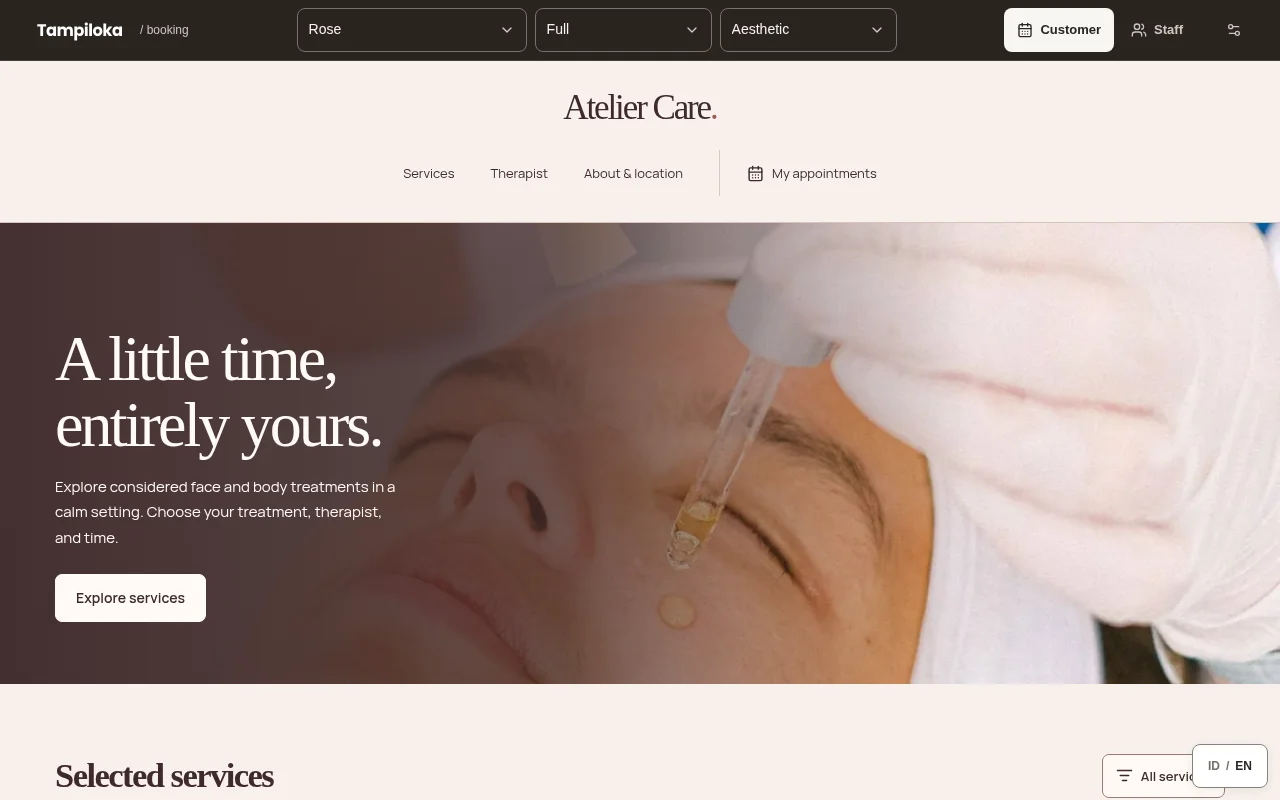
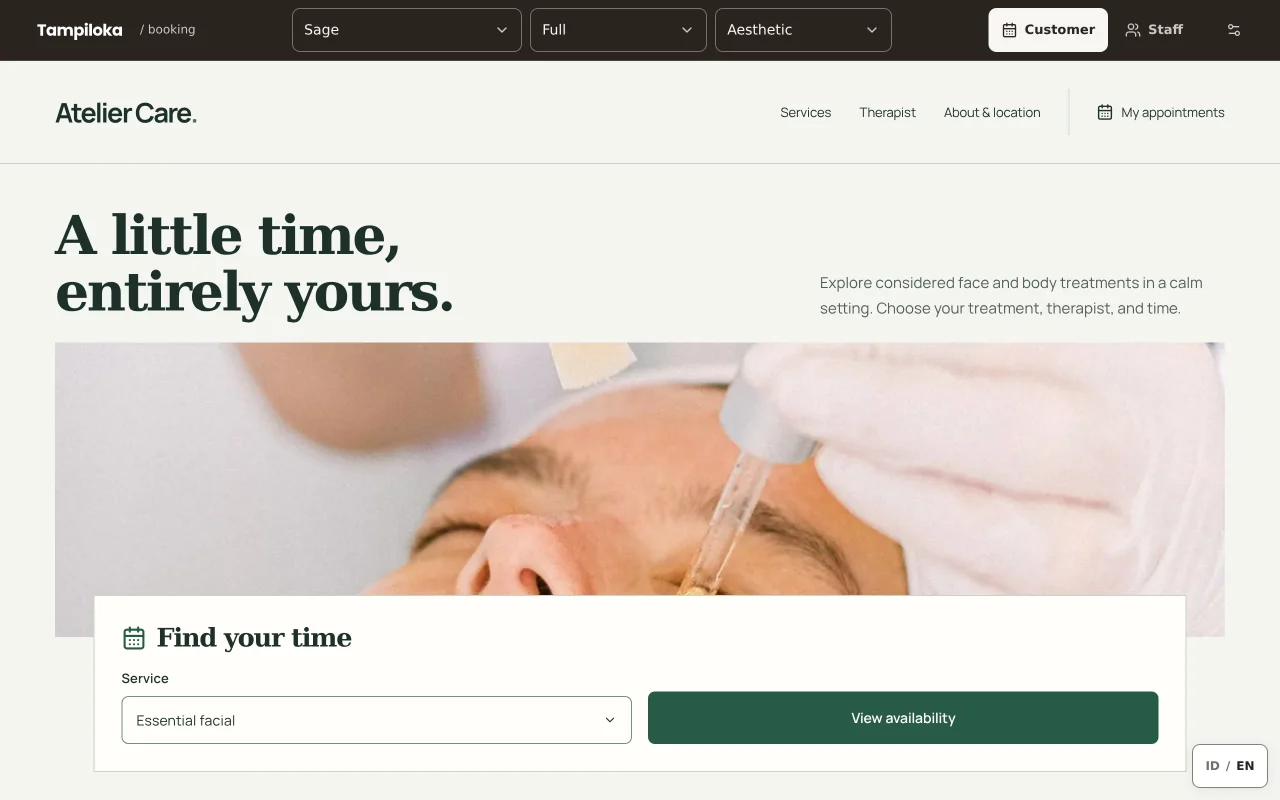
Keep booking demo service links clear of language control

diff --git a/templates/booking/src/styles/customer.css b/templates/booking/src/styles/customer.css
@@ -1055,3 +1055,8 @@
     font-size: 15px;
   }
 }
+
+/* Keep section actions clear of the fixed demo language switch while scrolling. */
+body:has(.tl-demo-language) .b-section-heading > .b-collection-link {
+  margin-right: max(0px, calc(100px + env(safe-area-inset-right, 0px) - var(--gutter)));
+}

diff --git a/templates/booking/docs/design.md b/templates/booking/docs/design.md
@@ -67,3 +67,5 @@ The care-appointment reference WF-14 supports the existing service-to-booking hi
 The WF-14 care-appointment reference informed the disclosure and service-to-booking hierarchy. Booking retains its own configured brand, typography and four layouts; a catalog-workspace pattern was less appropriate for this focused interaction change. The reference is guidance rather than a new visual identity.
 
 Customer and staff route changes use a 180ms entrance on the main region. The route key excludes language and palette, so those choices preserve open disclosures and entered values. The global reduced-motion rule removes the movement. Bootstrap errors preserve API codes until localized rendering; unknown errors use localized recovery text.
+
+In the public demo, section actions reserve space beside the fixed language switch as they scroll through the viewport.

diff --git a/AGENTS.md b/AGENTS.md
@@ -236,6 +236,8 @@ Run design-token lint, affected template typechecks, catalog validation/tests, a
 
 ## Change log
 
+- **2026-11-03**: Booking demo section actions reserve space for the fixed language control while scrolling.
+
 - **2026-11-03**: School gallery labels published images with their localized titles and limits fictional-demo disclosure to demos.
 
 - **2026-11-03**: School now uses localized page routes, configurable institution identity/assets and CMS-driven home copy; generated-client tests verify built Worker deep links, branding and protected admin access.
